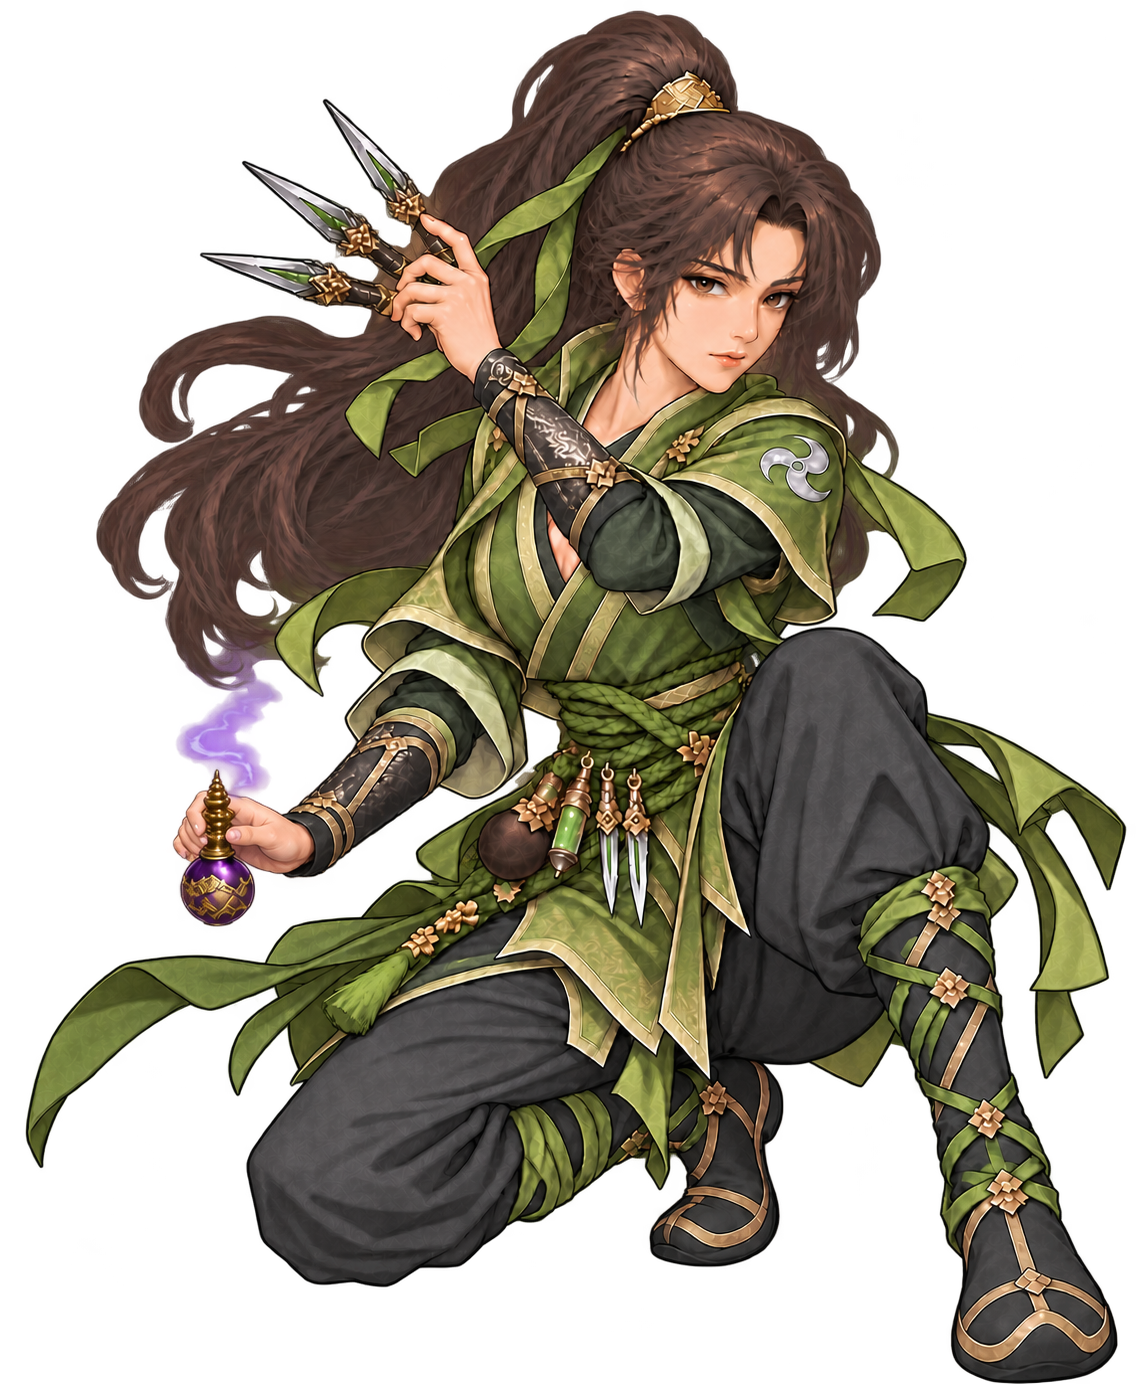
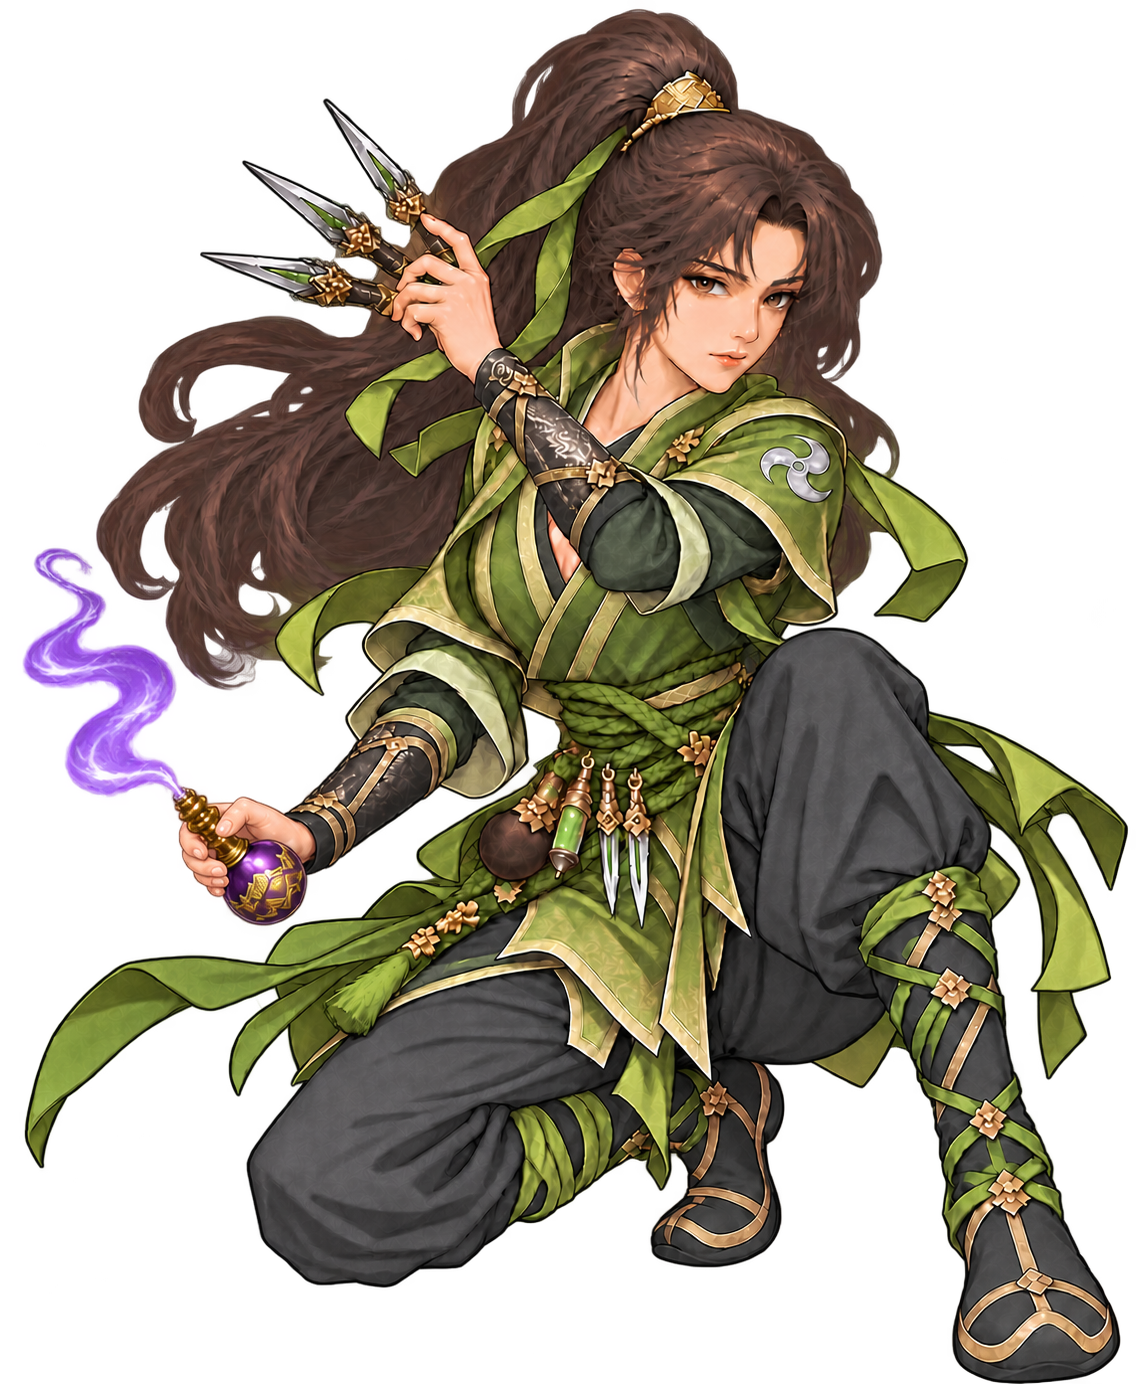
art: tilt Sichuan poison bottle and reveal vapor

diff --git a/docs/wardrobe.html b/docs/wardrobe.html
@@ -113,11 +113,11 @@
   document.querySelectorAll('[data-description]').forEach(button=>button.addEventListener('click',()=>{descriptionGender=button.dataset.description;choose(entries.find(entry=>entry.id===selectedId),false);}));
   async function load() {
     try {
-      const response=await fetch('assets/outfits-v5/manifest.json?v=20261028-sichuan-female-grip', {cache:'no-store'}); if(!response.ok)throw new Error('manifest');
+      const response=await fetch('assets/outfits-v5/manifest.json?v=20261028-sichuan-tilted-vapor', {cache:'no-store'}); if(!response.ok)throw new Error('manifest');
       const male=await response.json();
       const valid=e=>e&&typeof e.id==='string'&&typeof e.name==='string'&&typeof e.file==='string'&&/^[a-z0-9_-]+\.png$/i.test(e.file);
       entries=(male.entries||[]).filter(valid); if(!entries.length)throw new Error('empty');
-      let female={entries:[]}; try {const result=await fetch('assets/outfits-female-v1/manifest.json?v=20261028-sichuan-female-grip', {cache:'no-store'});if(result.ok)female=await result.json();}catch {}
+      let female={entries:[]}; try {const result=await fetch('assets/outfits-female-v1/manifest.json?v=20261028-sichuan-tilted-vapor', {cache:'no-store'});if(result.ok)female=await result.json();}catch {}
       const pending=(female.entries||[]).filter(valid);
       femaleEntries=new Map(pending.map(entry=>[entry.id,{...entry,ready:entry.status!=='pending'}]));
       $('completion').textContent='백의 + '+(entries.length-1)+'세력 · 남녀 의상';
